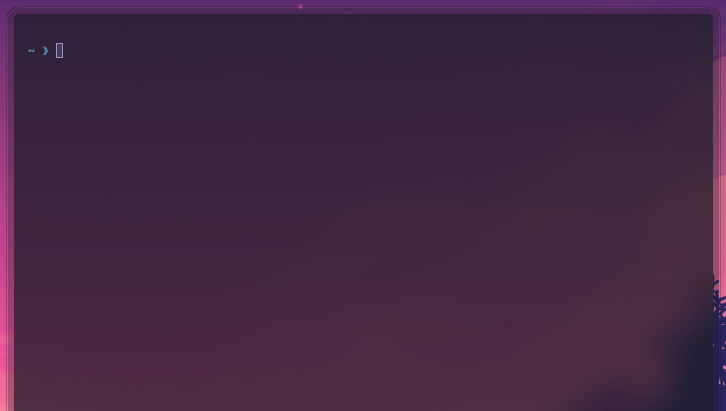
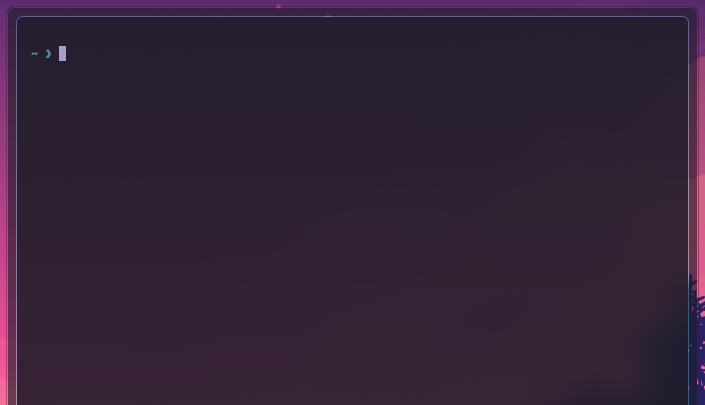
fix borders

diff --git a/walker.css b/walker.css
@@ -10,7 +10,7 @@ window {
 }
 
 window .box-wrapper {
-    background: alpha(@background, 0.9);
+    background: alpha(@background, 1);
     color: @text;
     border: 6px solid alpha(@border, 0.38);
     border-radius: 6px;

diff --git a/README.md b/README.md
@@ -13,9 +13,7 @@ Tokyo Glass is a modified Tokyo Night theme that adds the following features:
 omarchy-theme-install https://github.com/coreydemarse/omarchy-tokyo-glass-theme
 ```
 
-## Better Borders
-
-Enable the `borders-plus-plus` plugin for even better looking borders with this theme.
+This theme requires the `borders-plus-plus` hyprland plugin!
 
 ```
 hyprpm add https://github.com/hyprwm/hyprland-plugins
